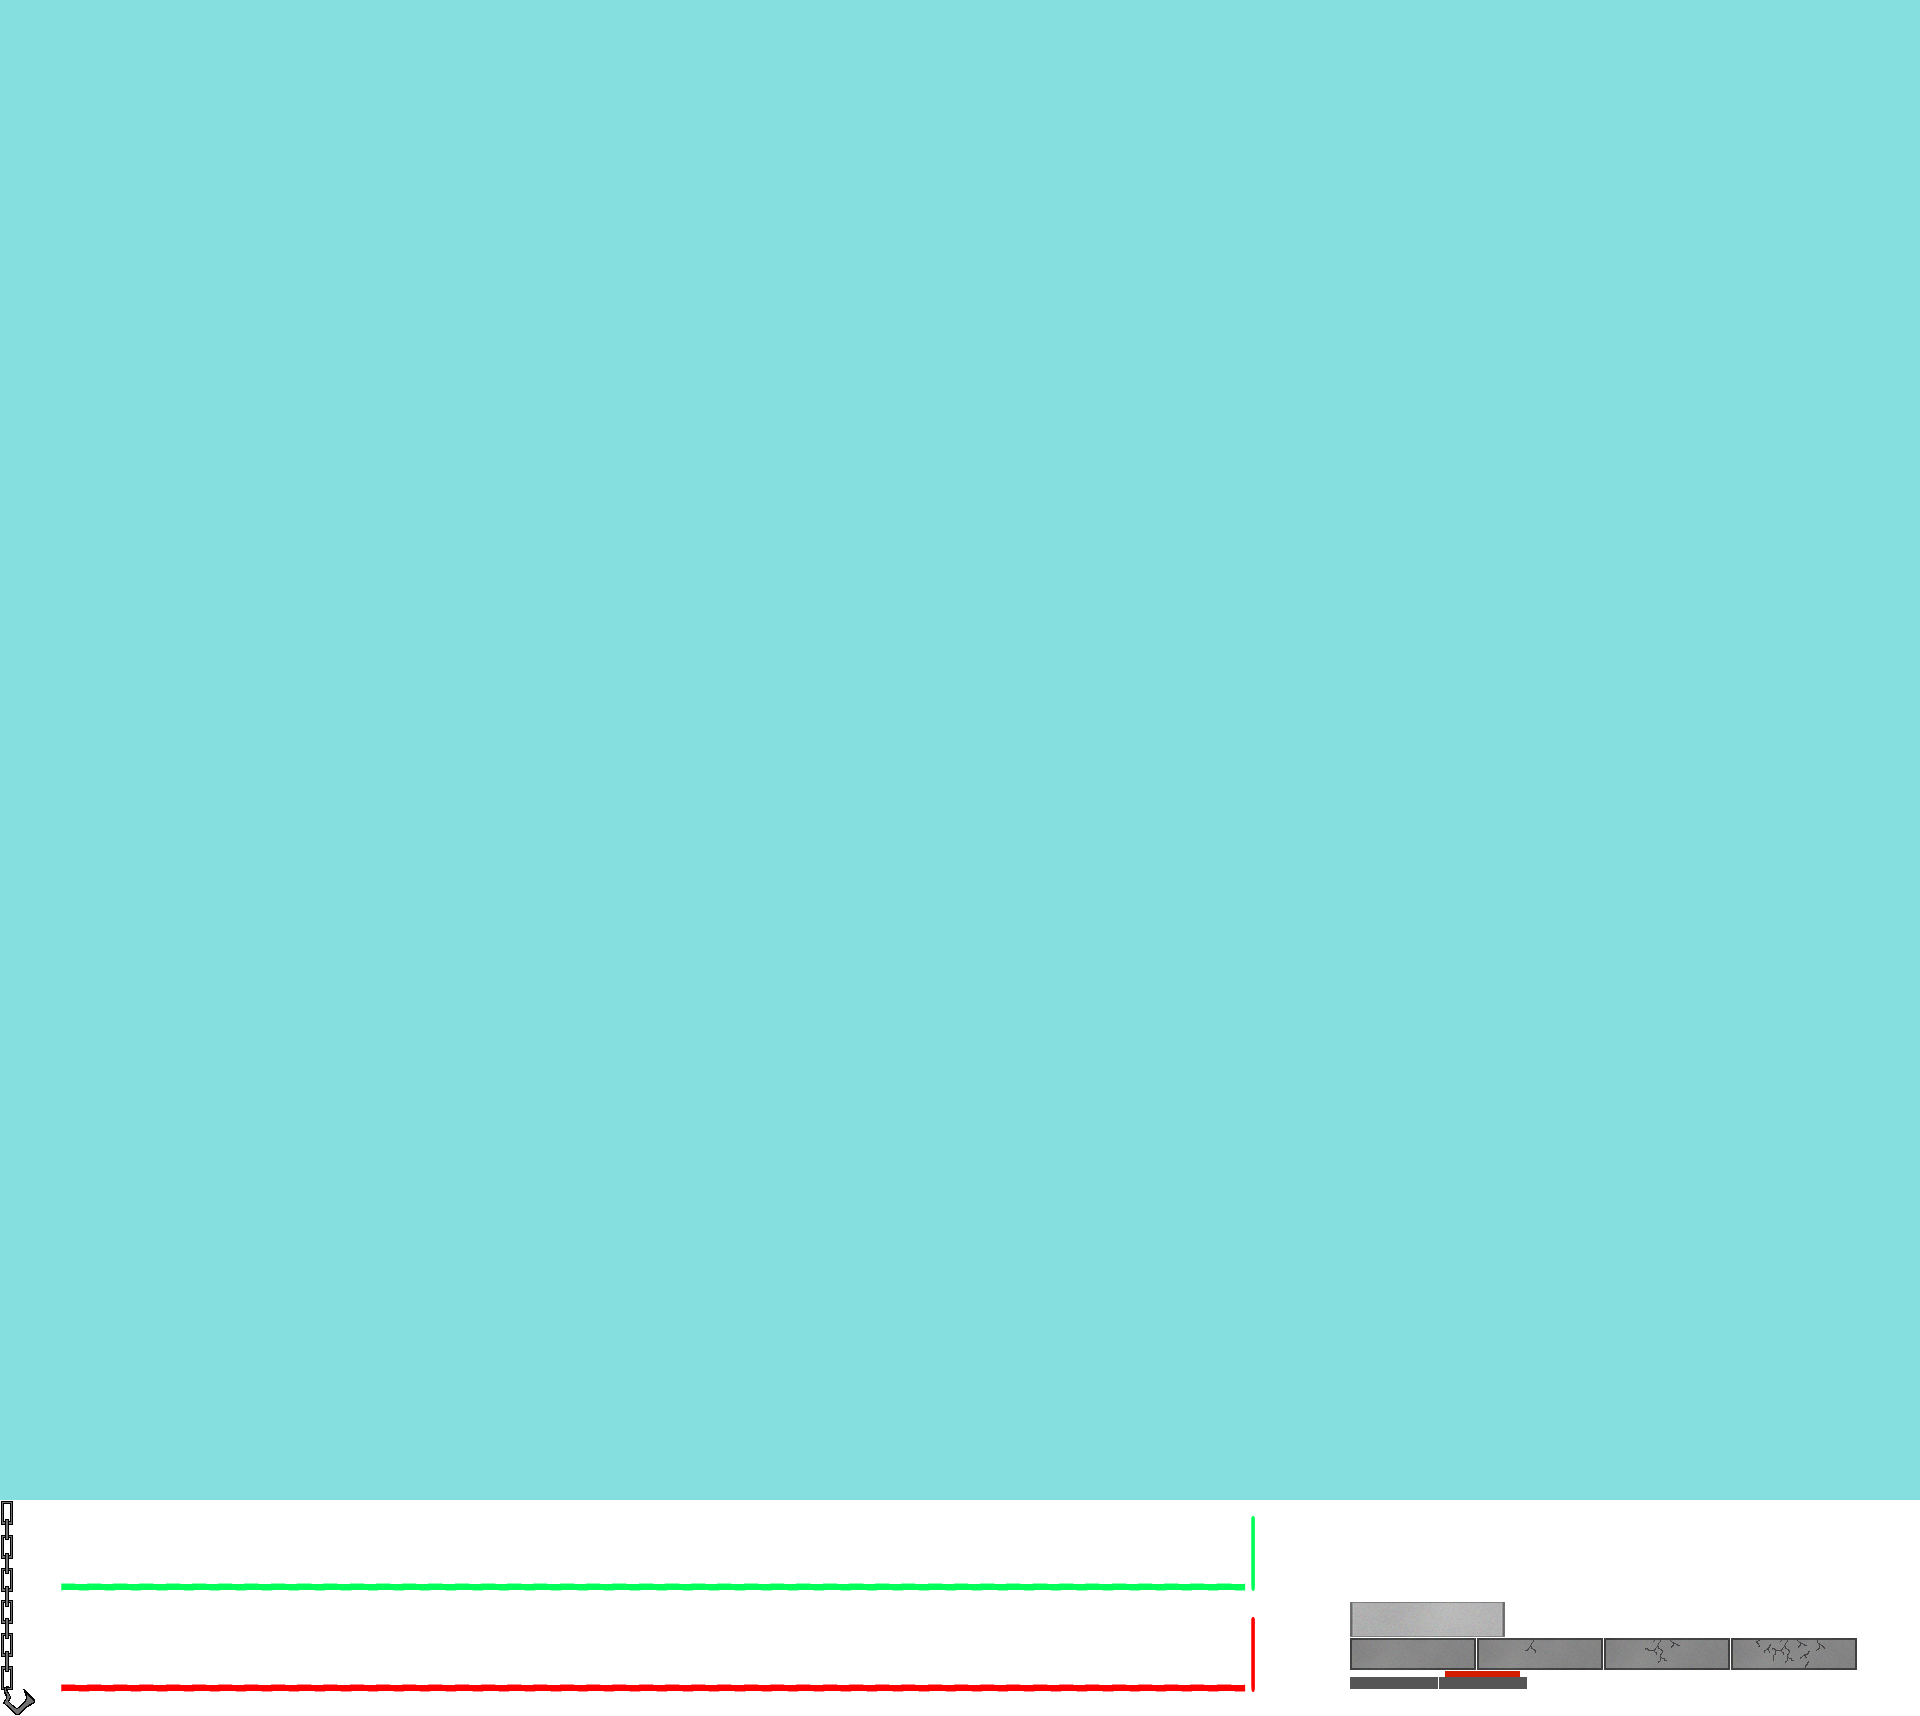
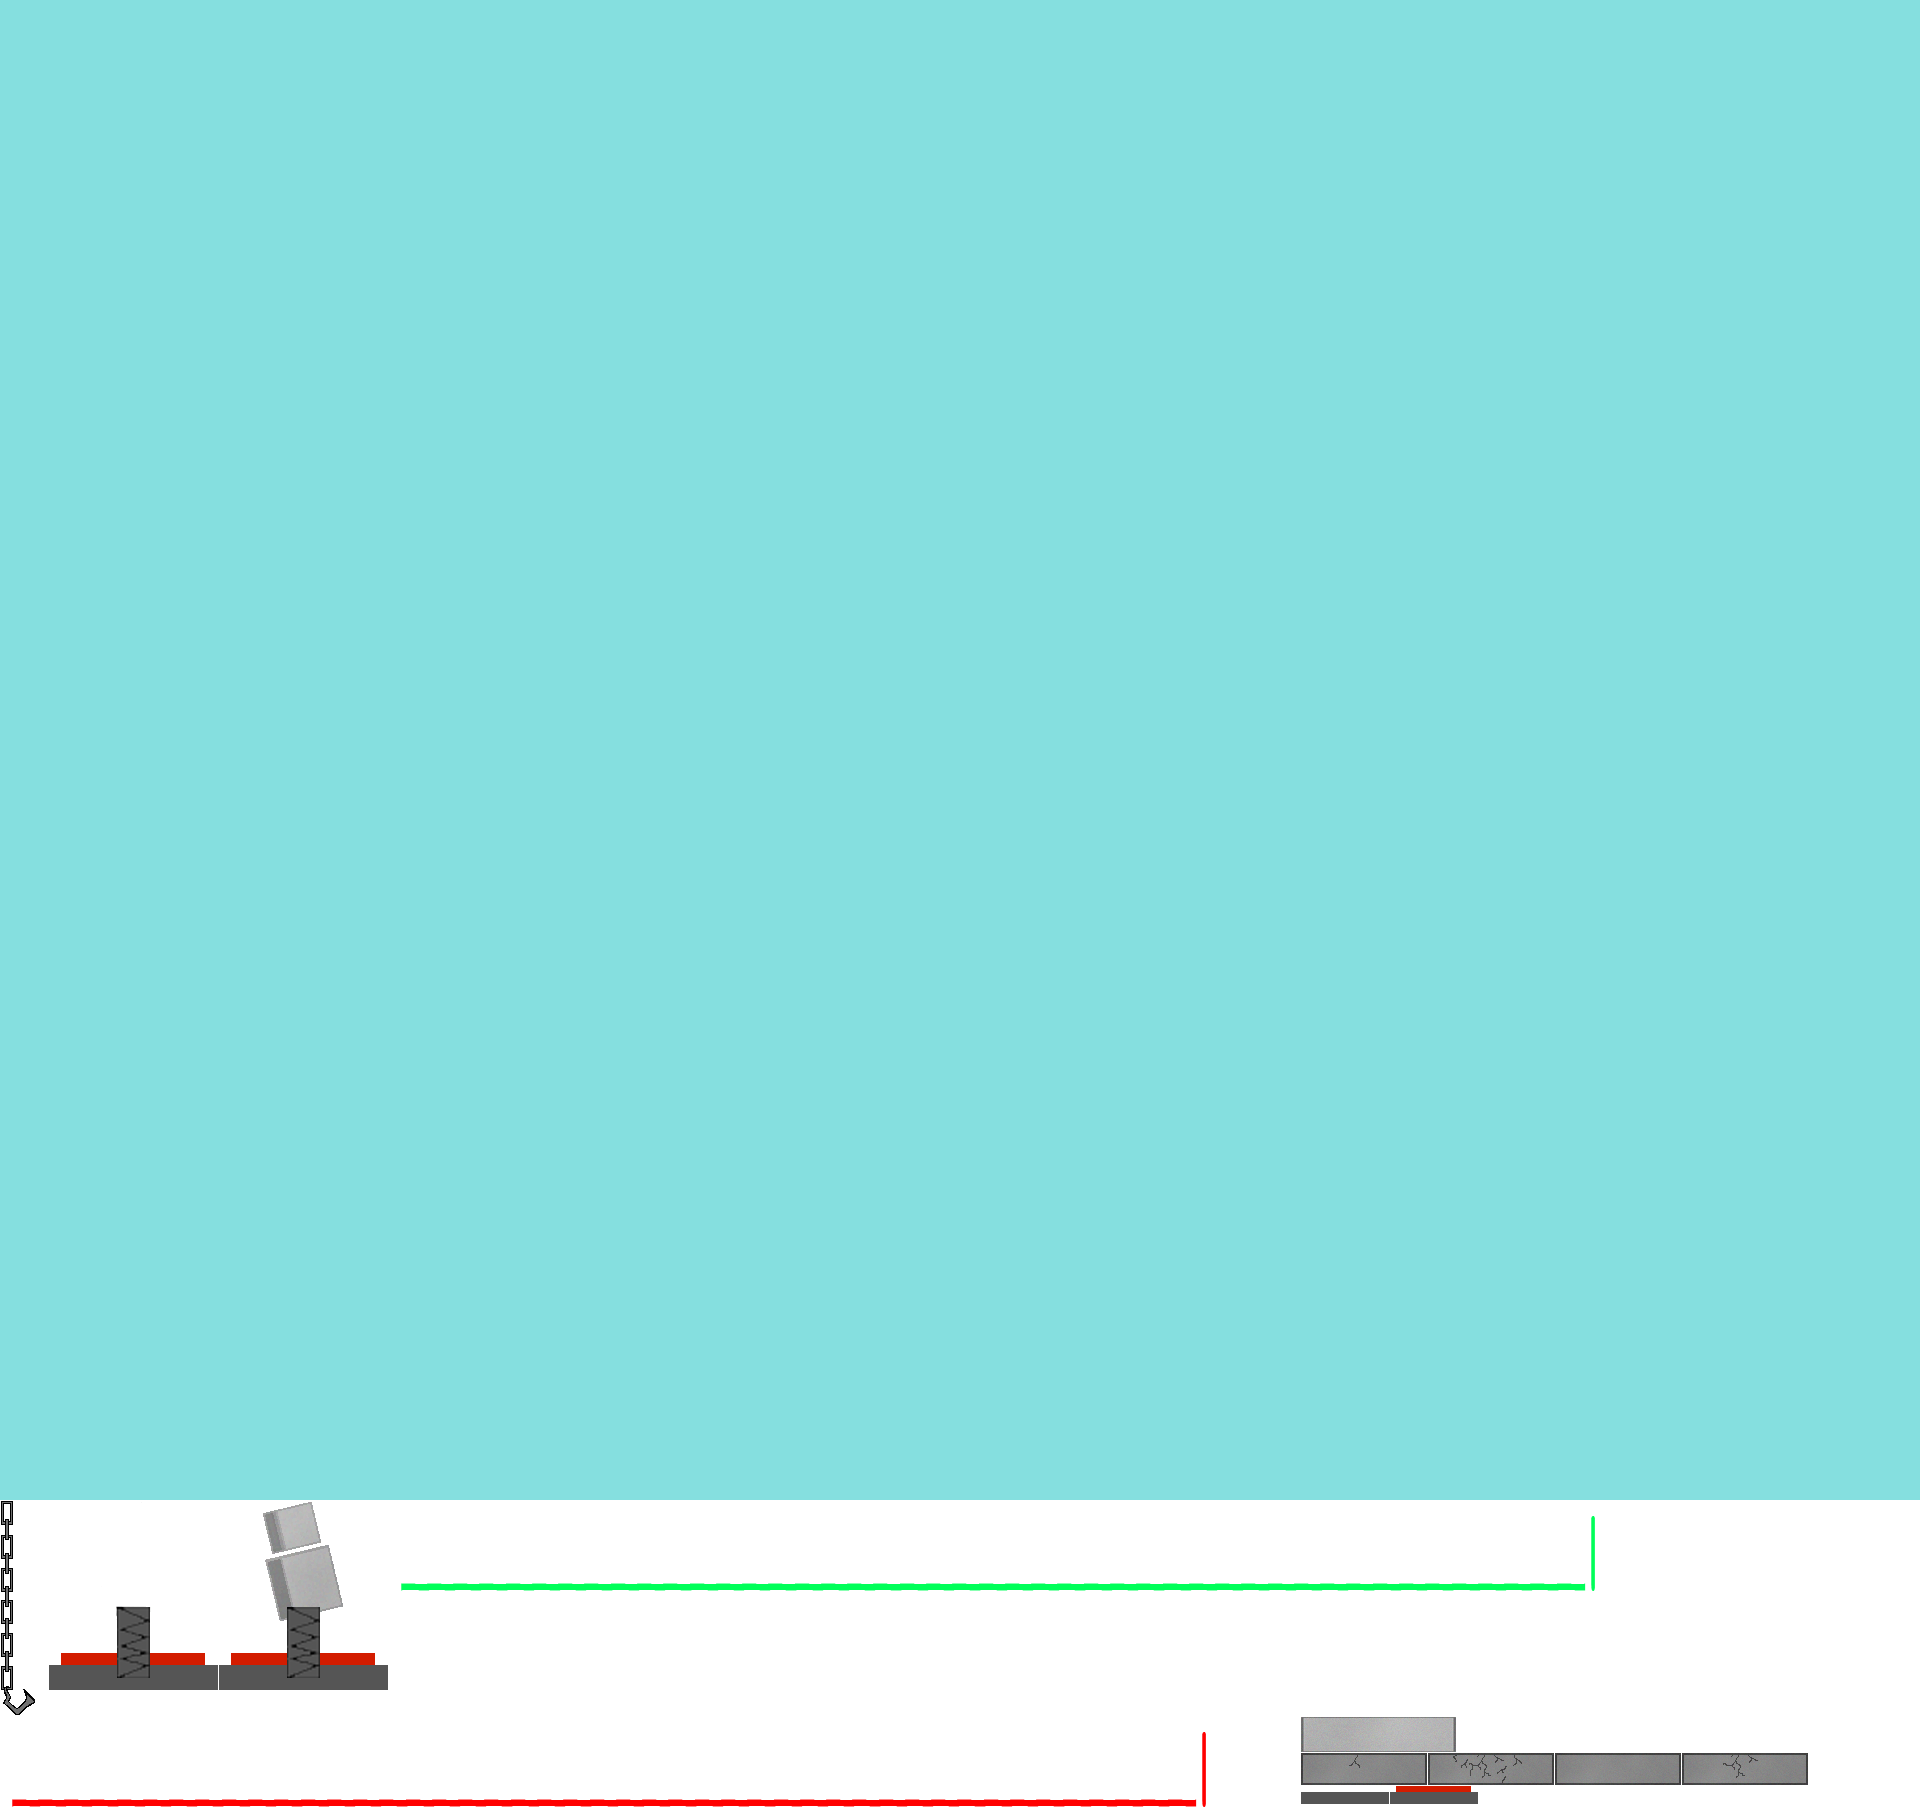
Level four is working as intendid

Changed region(s): [[0.0, 0.803, 1.0, 1.0]]

diff --git a/Keep-It-Together-master/phaser/myGame/js/main.js b/Keep-It-Together-master/phaser/myGame/js/main.js
@@ -1,5 +1,5 @@
-//var game = new Phaser.Game(800, 500, Phaser.AUTO);
-var game = new Phaser.Game(1920, 1500, Phaser.AUTO); //rffv
+var game = new Phaser.Game(800, 500, Phaser.AUTO);
+//var game = new Phaser.Game(1920, 1500, Phaser.AUTO); //rffv
 //rffv means remove from final version (word search through document to find these before the final push)
 
 // P L A Y E R
@@ -22,7 +22,7 @@ var touching;
 var limb;
 var touchingLimb;
 var distance;
-var trapped = 0;
+var trapped = false;
 
 // L E V E L  T R A C K E R 
 var level;
@@ -788,7 +788,7 @@ level4.prototype = {
 	preload: function() { // pre game loop
 		console.log('First level: preload');
 		//nothing to load rn
-		game.load.image('leftLeg', 'assets/img/legLside.png');
+		//game.load.image('leftLeg', 'assets/img/legLside.png');
 
 		},
 	create: function() { //make the game world
@@ -808,11 +808,10 @@ level4.prototype = {
 		limbRip = game.add.audio('limbSound', 1, false);
 		levelRip = game.add.audio('levelShift', 1, false);
 	
-        player = new Player(game, 'guy', 'Body', 400, 0);// add player from prefab
+        player = new Player(game, 'guy', 'Body', 400, 250);// add player from prefab
         game.add.existing(player);
 
 		walking.play(); //play the music so it lines up across all levels (excluding final level)
-		
 		
 		// Destroy last music and unmute new track
 		music3.destroy();
@@ -822,26 +821,17 @@ level4.prototype = {
 		size = 1; //N O T E : figure out what this is for
 		level = 4; // set first level
 		
-		limb = game.add.sprite(1920, 400, 'leftLeg'); //add the controlable limb in where the player can't see
+/* 		limb = game.add.sprite(1920, 400, 'leftLeg'); //add the controlable limb in where the player can't see
 	    game.physics.arcade.enable(limb);
 		limb.scale.setTo(1.5, 1);
 		limb.body.gravity.y = 450; // same physics as player
-		limb.body.collideWorldBounds = true; // don't fall through the earth
+		limb.body.collideWorldBounds = true; // don't fall through the earth */
 
 		//level layout
 		this.platforms = game.add.group(); //create platforms group
 		this.platforms.enableBody = true; //enable physics to for platforms
 
 		// Add platforms for world bounds
-		/*
-		floor right
-		floor left
-		roof
-		wall right
-		wall left
-		parkour platforms x4
-		breakable rock
-		*/
 		var ledge = this.platforms.create(30, 1427, 'plat', 'lilBox'); //floor left
 		ledge.body.immovable = true;
 		ledge.scale.setTo(5.4, 2);
@@ -868,28 +858,25 @@ level4.prototype = {
 		buttonTrap.body.immovable = true;
 		indicator = game.add.sprite(1100, 1400, 'puzzles', 'indicatorRed'); //add an indicator to show the player what the button does
 		indicator.scale.setTo(.55, .7);
-
+		
 		// C A M E R A  S T U F F
 		game.world.setBounds(0,0,1920, 1500);
 		game.camera.follow(player, Phaser.Camera.FOLLOW_LOCKON, 0.6, 0.6);
-		// game.input.onDown.add(shake, this);
 		},
 	update: function() {
 		var cursors = game.input.keyboard.createCursorKeys();
 		touching = game.physics.arcade.collide(player, this.platforms); //allows player to collide with walls and platforms and stuff
-		touchingLimb = game.physics.arcade.collide(limb, this.platforms); //allows limb to collide with walls and platforms and stuff
 
 		// Figures out if the player is falling then adds a landing sfx.
-		// C H A N G E  T H I S  A F T E R  T E S T I N G -------------v
-		if (game.input.keyboard.justPressed(Phaser.Keyboard.SPACEBAR) /*&& lLegOn == true*/){//press space to remove limbs
+		// C H A N G E  T H I S  A F T E R  T E S T I N G ----------------------------------v
+		if (game.input.keyboard.justPressed(Phaser.Keyboard.SPACEBAR) && trapped == true/*&& lLegOn == true*/){//press space to remove limbs
 			console.log('arm off');
 			limbRip.play();
 			lLegOn = false;
 			lLeg.destroy();
-			/* limb.x = player.x + 20; // teleport controllable limb to player
-			limb.y = player.y + 20; 
-			game.camera.follow(limb, Phaser.Camera.FOLLOW_LOCKON, .6, .6); //follow the limb with the camera */
-			trapped = 0;
+			trapped = false;
+			player.body.x = 1680;
+			player.body.gravity.y = 450;
 		}
 		if(player.body.velocity.y > 0){ // check for falling
 			falling = true;
@@ -902,7 +889,7 @@ level4.prototype = {
 			falling = false;
 			console.log('Landed');
 		}
-		if(cursors.up.isDown && touching == true){ //press up to make jump sfx
+		if(cursors.up.isDown && touching == true && trapped == false){ //press up to make jump sfx
 			game.camera.follow(player, Phaser.Camera.FOLLOW_LOCKON, .6, .6);
 			if(yesJump == true){
 				jumping.play();
@@ -915,7 +902,7 @@ level4.prototype = {
 		if(player.body.onFloor() != true){// pause walking sound when not on ground
 			walking.pause();
 		}
-		if (cursors.left.isDown || cursors.right.isDown){
+		if ((cursors.left.isDown && trapped == false) || (cursors.right.isDown && trapped == false)){
 			if(touching == true){ //play sound when player is moving on the ground (taken from phaser.io exmaple code)
 				walking.resume();//  Play walk sound
 				game.camera.follow(player, Phaser.Camera.FOLLOW_LOCKON, .6, .6);
@@ -927,17 +914,7 @@ level4.prototype = {
 			
 	// L I M B	
 		// W A L K I N G
- 	if (game.input.keyboard.isDown(Phaser.Keyboard.A) && lLegOn == false){// go left
-		limb.body.velocity.x = -playerVel;
-		game.camera.follow(limb, Phaser.Camera.FOLLOW_LOCKON, .6, .6);
-	}
-	else if (game.input.keyboard.isDown(Phaser.Keyboard.D) && lLegOn == false){// go right
-		limb.body.velocity.x = playerVel;
-		game.camera.follow(limb, Phaser.Camera.FOLLOW_LOCKON, .6, .6);
-	} 
-	else {//  don't move
-		limb.body.velocity.x = 0;
-	} 
+	// no limb movement in this level
 
 	if (player.body.y > 1970 || cursors.down.isDown){//next state
 		rLegOn = false;
@@ -949,11 +926,11 @@ level4.prototype = {
 		music2.destroy();
 		music3.destroy();
 		music4.destroy();
-	}		
-
+	}
+	
 	function trapPressed (player, buttonTrap) {//press the button
 		buttonTrap.destroy();
-		var trapped = -1; // find a way to make the player immovable
+		trapped = true; // find a way to make the player immovable
 		
 		buttons = game.add.sprite(80, 1397, 'puzzles', 'buttonUp');//replace with trap sprite I M P O R T A N T
 		buttons.scale.setTo(1.9, 2);
@@ -962,15 +939,15 @@ level4.prototype = {
 		indicator = game.add.sprite(860, 1400, 'puzzles', 'indicatorRed'); //add an indicator to show the player what the button does
 		indicator.scale.setTo(-.55, .7);
 		
-		buttonTrap = game.add.sprite(1690, 1397, 'puzzles', 'buttonDown');//replace with trap sprite I M P O R T A N T
-		buttonTrap.scale.setTo(1.9, 2);
+		buttonTrap = game.add.sprite(1690, 1240, 'puzzles', 'playerFreed');//replace with trap sprite I M P O R T A N T
 		indicator = game.add.sprite(1100, 1400, 'puzzles', 'indicatorGreen'); //just to tease them
 		indicator.scale.setTo(.55, .7);
-/* 	    game.physics.arcade.enable(buttonTrap); // add physics to the button (line might be unnecessary)
-		buttonTrap.body.immovable = true; */
-/* 		indicator = game.add.sprite(610, 1400, 'puzzles', 'indicatorRed'); //show the player that something has happened
-		indicator.scale.setTo(-.95, .7); */
-				
+		
+		player.body.y = 1250;
+		player.body.x = 1720;
+		player.body.gravity.y = 0;
+		lLegOn = false;
+		lLeg.destroy();
 		// Make a sound to let the player know they are trapped
 	}
 	function buttonPressed (player, buttons) {//press the button
@@ -1163,7 +1140,7 @@ level5.prototype = {
 		else {//  Pause music/sfx
 			 walking.pause();
 		}
-	if (player.body.x > 1520){//next state
+	if (player.body.x > 1927){//next state
 		music5.destroy();
 		game.state.start('endCutscene')
 	}

diff --git a/Keep-It-Together-master/phaser/myGame/js/player.js b/Keep-It-Together-master/phaser/myGame/js/player.js
@@ -102,12 +102,12 @@ Player.prototype.update = function(){
     	}
 	
 	// W A L K I N G
-	if (cursors.left.isDown && level != 5){
+	if (cursors.left.isDown && level != 5 && trapped == false){
 		//  go left
 		player.body.velocity.x = -playerVel;
 	}
 	
-	else if (cursors.right.isDown && level != 5){
+	else if (cursors.right.isDown && level != 5 && trapped == false){
 		//  go right
 		player.body.velocity.x = playerVel;
 	}
@@ -159,11 +159,9 @@ Player.prototype.update = function(){
 		//  don't move
 		player.body.velocity.x = 0;
 	}
-	if (trapped == -1){ // this code doesn't work
-		this.body.immovable = false;
-	}
+
 	if (game.input.keyboard.justPressed(Phaser.Keyboard.SPACEBAR) /*&& lLegOn == true*/){ // this code doesn't do anything rn
-		trapped = 1;
+		trapped = false;
 	}
 		
 }
